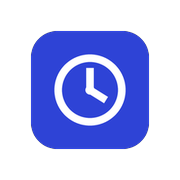
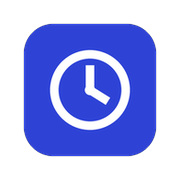
V2.02.12: ícone do app com área do desenho maior (92%), para ficar do tamanho dos outros no Dock
Claude-Session: https://claude.ai/code/session_018yerPYMkKr6UzfG4azh9kd

Changed region(s): [[0.1111, 0.1111, 0.8889, 0.8889], [0.2778, 0.2778, 0.7222, 0.7222]]

diff --git a/js/config.js b/js/config.js
@@ -7,4 +7,4 @@ window.TEMPO_CFG = {
 };
 
 /* versão exibida no rodapé da barra lateral; aumentar a cada publicação */
-const APP_VERSION = 'V2.02.11';
+const APP_VERSION = 'V2.02.12';
